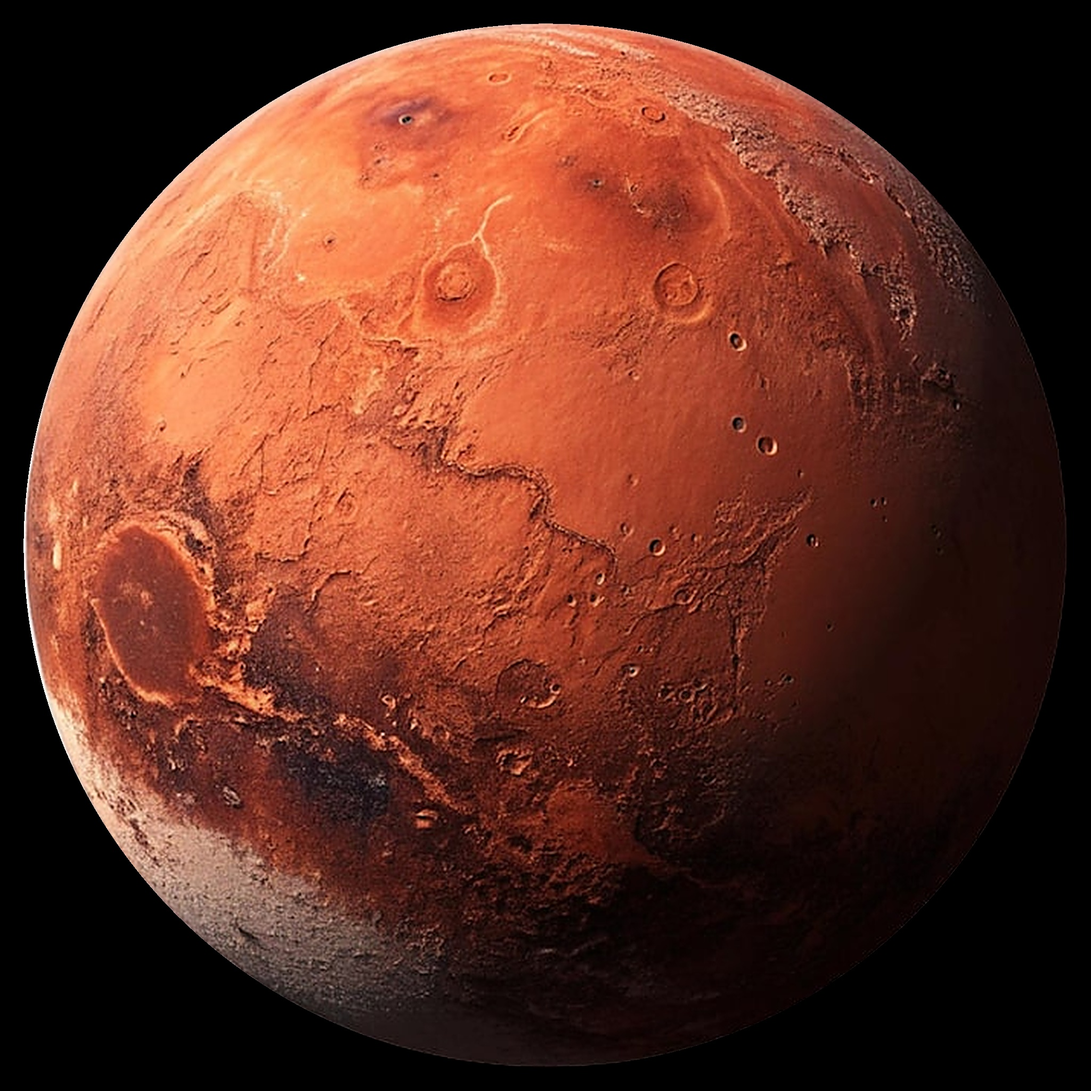
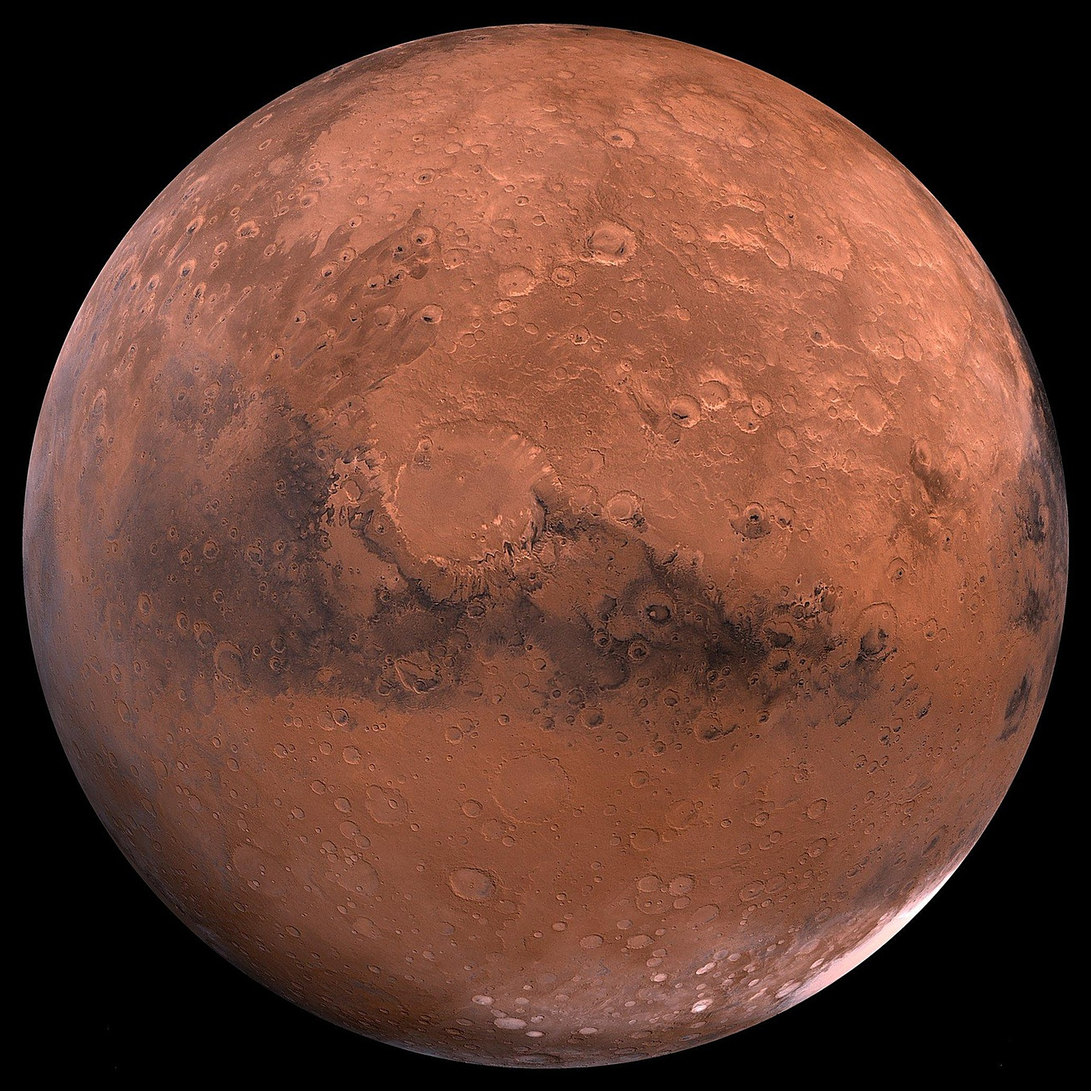
Terra até Marte: foto nova de Marte (iluminada por igual) e aproximação até encher a tela
Claude-Session: https://claude.ai/code/session_013Wq3K2QfDjABdZYwW9KyJz

diff --git a/videos/terra-marte/index.html b/videos/terra-marte/index.html
@@ -380,7 +380,7 @@ function camera(t){
   const look=slerp(nrm(mul(pos,-1)),nrm(sub(M,pos)),kB);
   const ang=2*Math.asin(Math.min(1,RM/rM))*180/Math.PI;
   const x=seg(t,15.8,47.5), kS=1-(1-x)*(1-x)*(1-.4*x);
-  const sAlvo=Math.exp(lerp(Math.log(0.12),Math.log(0.56),kS));  // termina com Marte inteiro na largura da tela
+  const sAlvo=Math.exp(lerp(Math.log(0.15),Math.log(1.0),kS));  // termina com Marte enchendo a tela de cima a baixo
   const fTel=Math.min(50,Math.max(0.2,ang/sAlvo));
   const fov=Math.exp(lerp(Math.log(50),Math.log(fTel),ease(seg(t,12.5,16))));
   return {pos,look,fov,upRef:[0,1,0]};
